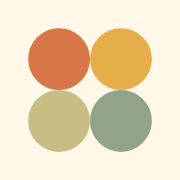
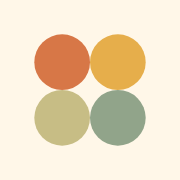
Add files via upload

Changed region(s): [[0.1389, 0.1389, 0.8611, 0.8611], [0.4722, 0.6667, 0.5278, 0.75]]

diff --git a/js/install.js b/js/install.js
@@ -1,0 +1,99 @@
+/* 加到手機桌面（web-0.45）
+   - 註冊 service worker（sw.js），讓網站可以像 App 一樣安裝，斷網時也打得開讀過的頁面
+   - #/app 頁：依照手機和瀏覽器，顯示對應的步驟；Android 的 Chrome 可以直接按按鈕安裝
+   - 已經從桌面打開的人，首頁和選單就不再出現提醒 */
+(function () {
+  const $ = (id) => document.getElementById(id);
+  const ua = navigator.userAgent;
+  const standalone = () => matchMedia('(display-mode: standalone)').matches || navigator.standalone === true;
+  const isIOS = /iPhone|iPad|iPod/.test(ua) || (/Macintosh/.test(ua) && navigator.maxTouchPoints > 1);
+  const isAndroid = /Android/.test(ua);
+  const isLine = /\bLine\//i.test(ua);
+  const inApp = /\bLine\/|FBAN|FBAV|Instagram|Barcelona|MicroMessenger|KAKAOTALK/i.test(ua);
+  const isSamsung = /SamsungBrowser/.test(ua);
+  const tr = (n, p) => { try { window.track && window.track(n, p); } catch (e) {} };
+
+  if ('serviceWorker' in navigator && (location.protocol === 'https:' || location.hostname === 'localhost')) {
+    window.addEventListener('load', () => navigator.serviceWorker.register('sw.js').catch(() => {}));
+  }
+
+  let prompt = null;
+  window.addEventListener('beforeinstallprompt', (e) => { e.preventDefault(); prompt = e; if (location.hash.startsWith('#/app')) render(); });
+  window.addEventListener('appinstalled', () => { prompt = null; tr('app_installed'); if (location.hash.startsWith('#/app')) render(); });
+
+  function hideEntries() {
+    const on = standalone();
+    document.body.classList.toggle('is-app', on);
+    if ($('home-app')) $('home-app').hidden = on;
+    document.querySelectorAll('.nav-app').forEach((a) => (a.hidden = on));
+  }
+  hideEntries();
+  if (standalone()) {
+    try { if (!sessionStorage.getItem('psalm-app-open')) { sessionStorage.setItem('psalm-app-open', '1'); tr('app_open'); } } catch (e) {}
+  }
+
+  const hasRecords = () => { try { return JSON.parse(localStorage.getItem('psalm-collection-v1') || '[]').length > 0; } catch (e) { return false; } };
+  let tab = isIOS ? 'ios' : 'android';
+
+  const step = (i, html) => `<li><span class="app-step-n">${i}</span><div>${html}</div></li>`;
+  const shareIc = '<svg class="ic-inline" aria-hidden="true"><use href="#i-share"/></svg>';
+  const plusIc = '<span class="key-ic" aria-hidden="true">＋</span>';
+
+  function iosSteps() {
+    return `<ol class="app-steps">
+      ${step(1, `用 <b>Safari</b> 打開這個網站，點畫面下方的分享按鈕 ${shareIc}。<span class="fine">如果下方只看到「⋯」，先點「⋯」，再點「分享」。</span>`)}
+      ${step(2, `往下滑，點「<b>加入主畫面</b>」 ${plusIc}。`)}
+      ${step(3, '名稱會是「詩篇光景」，點右上角「<b>加入</b>」。桌面上就會出現圖示。')}
+    </ol>
+    ${hasRecords() ? '<p class="note">小提醒：iPhone 從桌面打開時，是一個新的空間，之前在 Safari 裡的「我的詩篇」紀錄不會自動帶過去。可以先到 <a class="btn-link" href="#/mine">我的詩篇</a> 最下方的「備份與還原」複製備份代碼，從桌面打開後再貼上還原。</p>' : ''}`;
+  }
+  function androidSteps() {
+    const btn = prompt ? `<button class="btn btn-primary btn-block app-install" id="app-install" type="button">${plusIc}加到手機桌面</button>
+      <p class="fine center">按下去之後，在跳出來的視窗點「安裝」就完成了。</p>` : '';
+    const manual = isSamsung
+      ? `<ol class="app-steps">
+          ${step(1, '點右下角的選單 <span class="key-ic" aria-hidden="true">≡</span>。')}
+          ${step(2, '點「<b>加入頁面至</b>」，再選「<b>主螢幕</b>」。')}
+          ${step(3, '確認名稱是「詩篇光景」，點「新增」。')}
+        </ol>`
+      : `<ol class="app-steps">
+          ${step(1, '用 <b>Chrome</b> 打開這個網站，點右上角的 <span class="key-ic" aria-hidden="true">⋮</span>。')}
+          ${step(2, '點「<b>加到主畫面</b>」或「<b>安裝應用程式</b>」。')}
+          ${step(3, '點「安裝」或「新增」。桌面上就會出現「詩篇光景」的圖示。')}
+        </ol>`;
+    return btn ? `${btn}<details class="more app-manual"><summary>沒有跳出視窗？手動加入的方法</summary>${manual}</details>` : manual;
+  }
+
+  function render() {
+    const body = $('app-body');
+    if (!body) return;
+    hideEntries();
+    if (standalone()) {
+      body.innerHTML = `<div class="app-done"><p><b>你現在就是從桌面打開的。</b></p><p>之後想讀詩篇，點桌面上的「詩篇光景」就好。</p><div class="btn-row"><a class="btn btn-outline" href="#/mine">看我的詩篇</a></div></div>`;
+      return;
+    }
+    let lead = '';
+    if (inApp) {
+      const ext = location.href.split('#')[0].split('?')[0] + '?openExternalBrowser=1#/app';
+      lead = `<div class="note app-inapp"><p><b>先換到手機的瀏覽器</b></p><p>你現在是在 ${isLine ? 'LINE' : 'App'} 裡面開啟網頁，這裡沒辦法加到桌面。請先用 ${isIOS ? 'Safari' : 'Chrome'} 打開這個網站。</p>
+        ${isLine ? `<a class="btn btn-outline btn-block" href="${ext}">用${isIOS ? ' Safari ' : '瀏覽器'}打開</a>` : `<p class="fine">點右上角或右下角的「⋯」，選「用瀏覽器開啟」。</p>`}</div>`;
+    } else if (!isIOS && !isAndroid) {
+      lead = `<div class="note"><p>這個功能要在手機上做。用手機打開這個網址，再照下面的步驟：</p><p class="app-url">${location.href.split('#')[0].split('?')[0].replace(/^https?:\/\//, '')}</p></div>`;
+    }
+    body.innerHTML = `${lead}
+      <div class="seg app-tabs" role="tablist" aria-label="手機類型">
+        <button type="button" role="tab" data-tab="ios" aria-selected="${tab === 'ios'}">iPhone</button>
+        <button type="button" role="tab" data-tab="android" aria-selected="${tab === 'android'}">Android</button>
+      </div>
+      <div class="app-panel" role="tabpanel">${tab === 'ios' ? iosSteps() : androidSteps()}</div>`;
+    body.querySelectorAll('[data-tab]').forEach((b) => (b.onclick = () => { tab = b.dataset.tab; render(); }));
+    if ($('app-install')) $('app-install').onclick = async () => {
+      const p = prompt; if (!p) return;
+      p.prompt();
+      try { const r = await p.userChoice; tr('app_prompt', { outcome: r.outcome }); } catch (e) {}
+      prompt = null; render();
+    };
+  }
+  window.renderInstall = () => { render(); tr('app_guide_view', { device: isIOS ? 'ios' : isAndroid ? 'android' : 'desktop' }); };
+  if (location.hash.startsWith('#/app')) window.renderInstall();
+})();

diff --git a/index.html b/index.html
@@ -11,6 +11,11 @@
 <link rel="icon" href="assets/favicon-32.png" type="image/png" sizes="32x32">
 <link rel="icon" href="favicon.ico" sizes="48x48">
 <link rel="apple-touch-icon" href="assets/apple-touch-icon.png">
+<link rel="manifest" href="manifest.webmanifest">
+<meta name="apple-mobile-web-app-capable" content="yes">
+<meta name="mobile-web-app-capable" content="yes">
+<meta name="apple-mobile-web-app-title" content="詩篇光景">
+<meta name="apple-mobile-web-app-status-bar-style" content="default">
 <!-- 社群分享預覽（LINE、Facebook、Threads、X）。網址要用完整網址，換網域時這裡要一起改 -->
 <meta property="og:type" content="website">
 <meta property="og:locale" content="zh_TW">
@@ -59,6 +64,7 @@
     <nav class="nav" id="nav" aria-label="主選單">
       <a href="#/">詩篇測驗</a>
       <a href="#/mine">我的詩篇</a>
+      <a href="#/app" class="nav-app">加到手機桌面</a>
       <a href="#/about">關於網站</a>
       <button type="button" class="nav-share" id="nav-share">分享給朋友</button>
     </nav>
@@ -99,6 +105,7 @@
         <button class="btn-link" id="btn-resume" type="button" hidden></button>
         <a class="btn-link" id="home-mine" href="#/mine" hidden></a>
       </div>
+      <a class="home-app" id="home-app" href="#/app"><span class="home-app-icon" aria-hidden="true"><i></i><i></i><i></i><i></i></span><span>加到手機桌面，每天打開讀一篇</span><svg class="ic" aria-hidden="true"><use href="#i-arrow-r"/></svg></a>
     </div>
   </section>
 
@@ -161,6 +168,27 @@
   </section>
 
   <!-- 關於 -->
+  <!-- 加到手機桌面 -->
+  <section id="view-app" class="view" data-view="app" hidden>
+    <div class="wrap page app-page">
+      <div class="app-hero">
+        <span class="app-icon" aria-hidden="true"><i></i><i></i><i></i><i></i></span>
+        <div>
+          <h1 class="page-title" tabindex="-1">加到手機桌面</h1>
+          <p class="app-sub">像一個小 App，點一下就打開。每天睡前、通勤、心裡亂的時候，都可以回來讀一篇。</p>
+        </div>
+      </div>
+      <div id="app-body"></div>
+      <h2>放到桌面之後</h2>
+      <ul class="app-perks">
+        <li>桌面上會出現「詩篇光景」的圖示，打開是全螢幕，沒有網址列。</li>
+        <li>不用下載、不用註冊，也不佔什麼空間。</li>
+        <li>網站有更新時，打開就是最新版。</li>
+      </ul>
+      <div class="btn-row"><a class="btn btn-primary" href="#/">回到首頁</a></div>
+    </div>
+  </section>
+
   <section id="view-about" class="view" data-view="about" hidden>
     <div class="wrap page about">
       <h1 class="page-title" tabindex="-1">關於這個網站</h1>
@@ -223,6 +251,7 @@
 <script src="js/art.js?v=0.45"></script>
 <script src="js/share.js?v=0.45"></script>
 <script src="js/analytics.js?v=0.45"></script>
+<script src="js/install.js?v=0.45"></script>
 <script src="js/app.js?v=0.45"></script>
 </body>
 </html>

diff --git a/css/style.css b/css/style.css
@@ -565,3 +565,37 @@ body:has(.verse-bar.on) .toast{bottom:calc(150px + env(safe-area-inset-bottom))}
 .journey-track.sky li{gap:8px}
 
 /* web-0.43：首頁拱門裡的風景自動變換光景（只換拱門裡的圖） */
+
+/* web-0.45 加到手機桌面 */
+.home-app{display:flex;align-items:center;gap:12px;margin:18px 0 0;padding:12px 14px;border:1px solid var(--line);border-radius:var(--r-md);background:var(--paper-hi);color:var(--ink);font-size:14px;font-weight:500;line-height:1.5;text-decoration:none}
+.home-app>span:nth-child(2){flex:1}
+.home-app .ic{width:18px;height:18px;flex:none;color:var(--soft)}
+.home-app-icon,.app-icon{flex:none;display:grid;grid-template-columns:1fr 1fr;gap:2px;padding:6px;width:34px;height:34px;border-radius:9px;background:var(--paper);box-shadow:0 0 0 1px var(--line)}
+.home-app-icon i,.app-icon i{border-radius:50%;background:#D77747}
+.home-app-icon i:nth-child(2),.app-icon i:nth-child(2){background:#E6AE4B}
+.home-app-icon i:nth-child(3),.app-icon i:nth-child(3){background:#C7BD85}
+.home-app-icon i:nth-child(4),.app-icon i:nth-child(4){background:#91A48A}
+.app-hero{display:flex;gap:16px;align-items:flex-start;margin-bottom:8px}
+.app-icon{width:64px;height:64px;padding:10px;gap:4px;border-radius:16px;box-shadow:0 0 0 1px var(--line),0 6px 16px rgba(23,64,42,.10)}
+.app-hero .page-title{margin-top:0}
+.app-sub{margin:6px 0 0;color:var(--soft);font-size:15px;line-height:1.7}
+.app-tabs{margin:22px 0 6px}
+.app-steps{list-style:none;margin:14px 0 0;padding:0;display:flex;flex-direction:column;gap:10px}
+.app-steps li{display:flex;gap:12px;align-items:flex-start;padding:14px 16px;border-radius:var(--r-md);background:var(--paper-hi);border:1px solid var(--line);font-size:15px;line-height:1.75}
+.app-steps .fine{display:block;margin-top:4px}
+.app-step-n{flex:none;display:grid;place-items:center;width:26px;height:26px;margin-top:1px;border-radius:50%;background:var(--ink);color:var(--paper);font-size:13px;font-weight:700}
+.ic-inline{width:18px;height:18px;vertical-align:-3px;color:#2A6FDB}
+.key-ic{display:inline-grid;place-items:center;min-width:22px;height:22px;padding:0 4px;border-radius:6px;border:1px solid var(--line-2);font-size:13px;font-weight:700;vertical-align:1px;background:var(--paper)}
+.app-install{margin-top:16px}
+.app-install .key-ic{border-color:rgba(255,255,255,.6);background:transparent;color:inherit;margin-right:2px}
+.app-page .note{margin:16px 0 0}
+.app-page .note p{margin:0 0 6px}
+.app-page .note p:last-child{margin-bottom:0}
+.app-inapp .btn{margin-top:8px}
+.app-url{font-weight:700;word-break:break-all}
+.app-manual{margin-top:14px}
+.app-perks{margin:8px 0 0;padding-left:1.2em;line-height:1.8}
+.app-done{padding:18px;border-radius:var(--r-md);background:var(--green-soft)}
+.app-done p{margin:0 0 6px}
+.center{text-align:center}
+.seg button[aria-selected="true"]{background:var(--paper-hi);color:var(--ink);font-weight:700;box-shadow:0 1px 4px rgba(23,64,42,.12)}

diff --git a/sw.js b/sw.js
@@ -1,0 +1,19 @@
+/* 詩篇光景：離線備援用的 service worker。
+   有網路時一律先抓最新的（網站更新馬上看得到），抓不到才用上次存下來的版本。 */
+const CACHE = 'psalm-landscape-v1';
+self.addEventListener('install', () => self.skipWaiting());
+self.addEventListener('activate', (e) => {
+  e.waitUntil(caches.keys().then((ks) => Promise.all(ks.filter((k) => k !== CACHE).map((k) => caches.delete(k)))).then(() => self.clients.claim()));
+});
+self.addEventListener('fetch', (e) => {
+  const req = e.request;
+  if (req.method !== 'GET') return;
+  const url = new URL(req.url);
+  if (url.origin !== location.origin) return; // GA 等外部請求不碰
+  e.respondWith(
+    fetch(req).then((res) => {
+      if (res.ok && res.type === 'basic') { const copy = res.clone(); caches.open(CACHE).then((c) => c.put(req, copy)); }
+      return res;
+    }).catch(() => caches.match(req, { ignoreSearch: req.mode === 'navigate' }).then((r) => r || caches.match('./index.html', { ignoreSearch: true })))
+  );
+});

diff --git a/data/config.js b/data/config.js
@@ -6,7 +6,7 @@ window.CONFIG = {
   /* Google Analytics 4 評估 ID（G- 開頭）。留空就不載入 GA、不送任何資料。會送哪些事件，見 js/analytics.js 開頭的說明。 */
   ga4Id: 'G-RGE6JCVBZJ',
 
-  version: 'web-0.45（首頁拱門回到原本那張孔版風景，不做任何變換',
+  version: 'web-0.45（新增「加到手機桌面」：manifest、service worker、#/app 說明頁與首頁提醒；首頁拱門維持原圖',
 
   /* 八維距離權重：沿用 V2.44 原型與 V2.146/V2.147 模擬所用的既有距離函數，未新增規則。 */
   weights: { A: 1.3, B: 1.15, C: 0.65, D: 1.0, E: 0.85, F: 0.7, G: 1.3, H: 1.0 },

diff --git a/js/app.js b/js/app.js
@@ -44,6 +44,7 @@
     if (h.startsWith('#/quiz')) return renderQuiz();
     if (h.startsWith('#/result')) return renderResult(state.altPsalm);
     if (h.startsWith('#/about')) return renderAbout();
+    if (h.startsWith('#/app')) { show('app'); if (window.renderInstall) window.renderInstall(); const t = document.querySelector('#view-app .page-title'); if (t) t.focus({ preventScroll: true }); return; }
     if (h.startsWith('#/mine')) return renderMine();
     if ((m = h.match(/^#\/read\/(\d{1,3})/))) return renderReader(+m[1]);
     if (h !== '#/' && h !== '#' && !h.startsWith('#/')) return; // 頁內錨點，維持目前畫面
